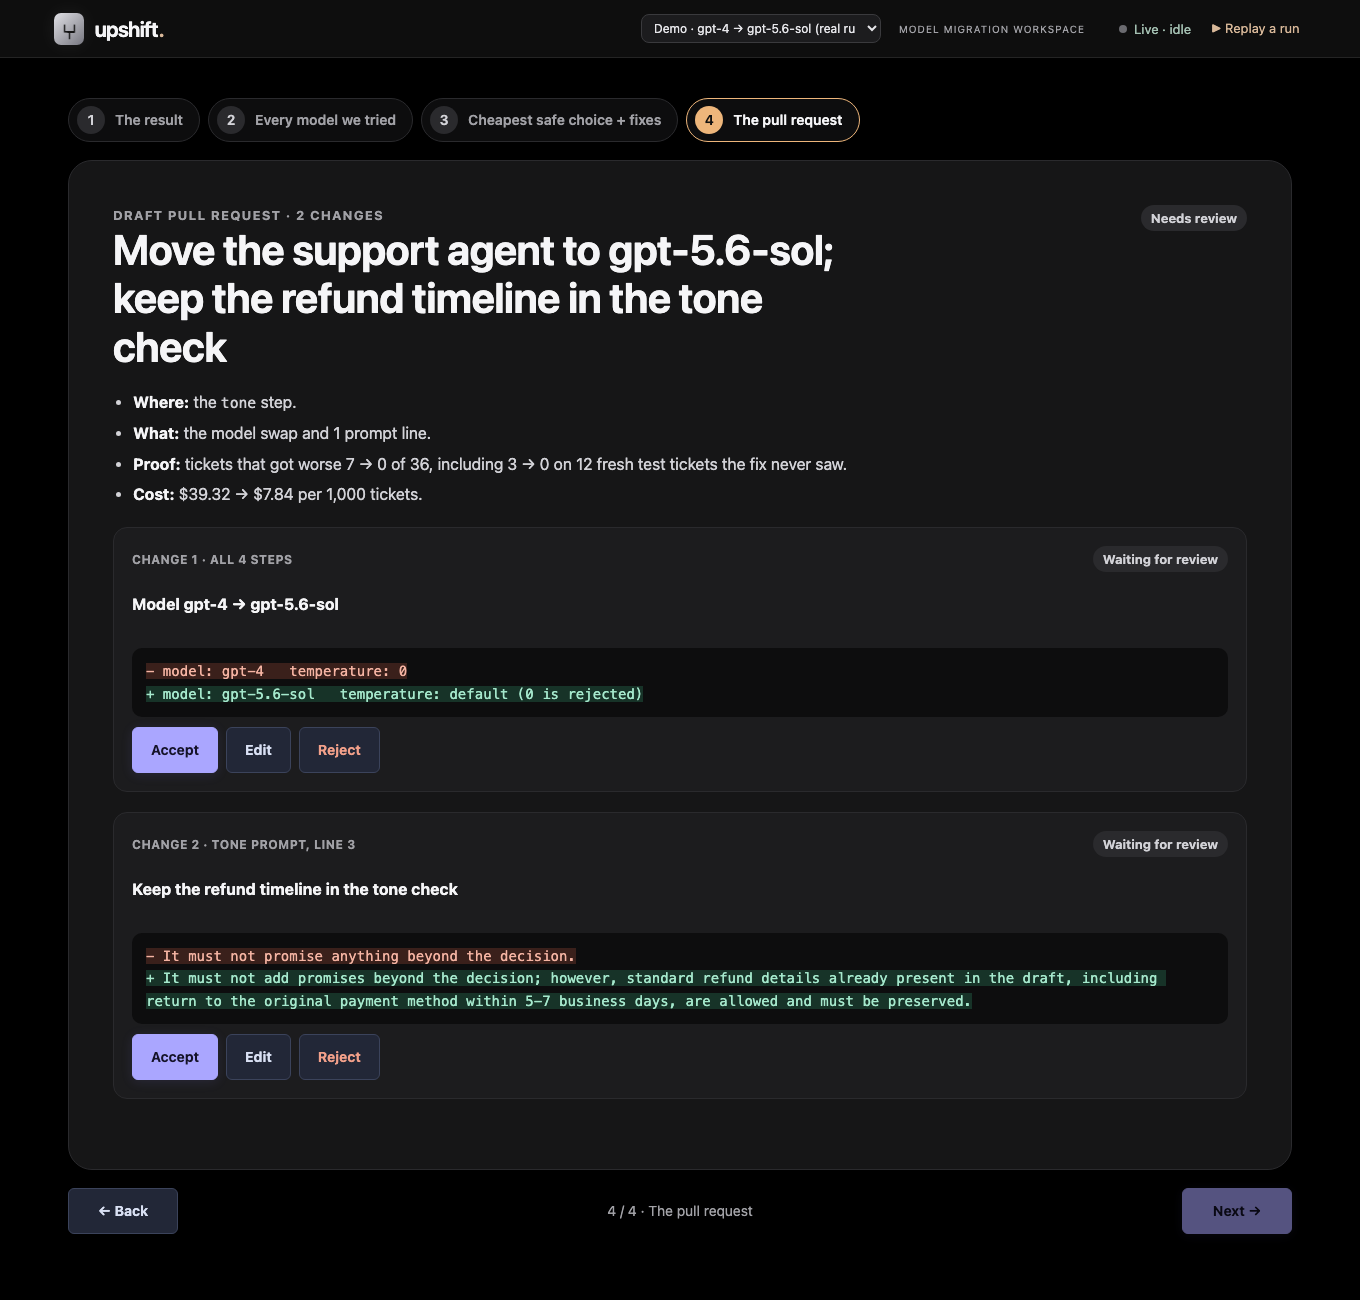
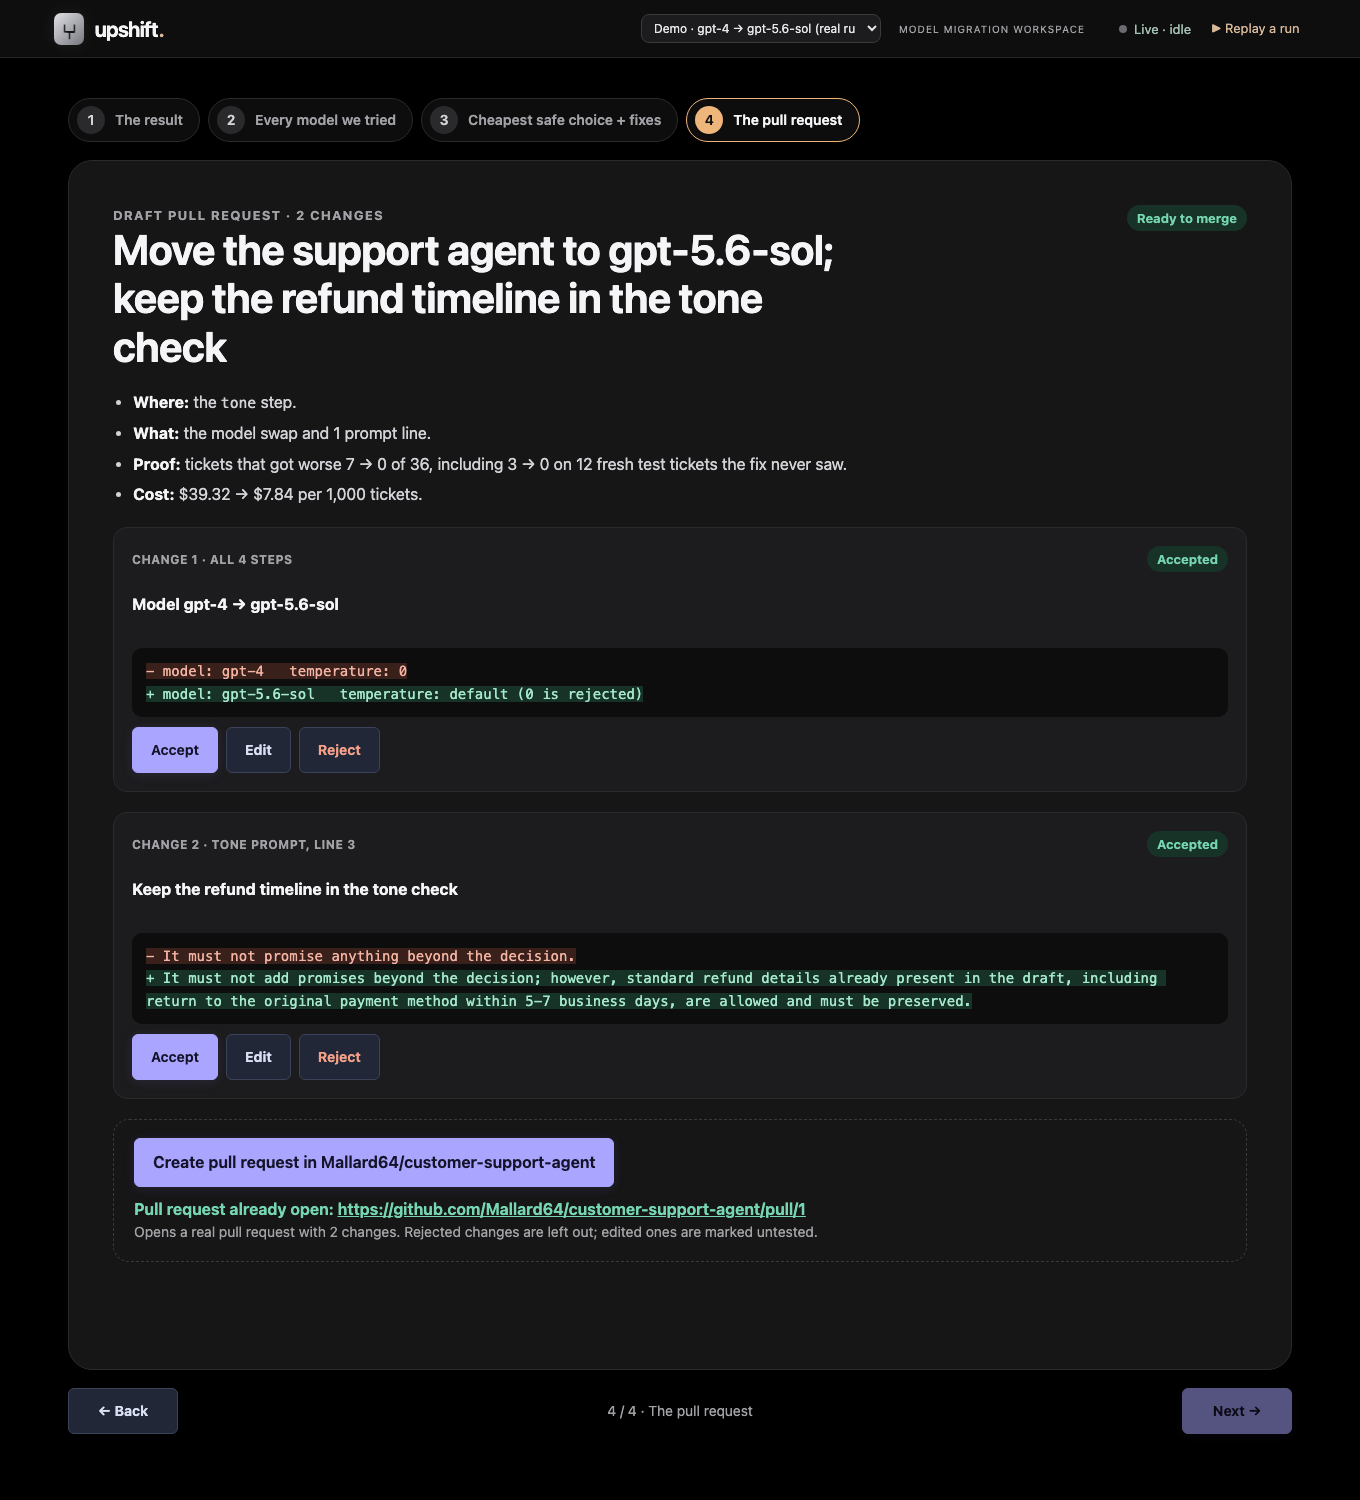
Slide 4 opens a real pull request in the support agent's own repo
- open_pr.py: applies the accepted/edited changes to Mallard64/customer-support-agent (config/target_repo.yml),
  checks the tested line is unchanged, pushes upshift/<model>-<hash>, runs gh pr create; same changes reuse the open PR
- dashboard: POST /api/create-pr (same-origin, one at a time) and a Create pull request button on slide 4
- tests/test_open_pr.py: 7 offline tests; DEMO.md explains the button and how to reset before a pitch

Claude-Session: https://claude.ai/code/session_01Bk3HujmHXAbUVtoahbFf9G

diff --git a/dashboard/demo-views.js b/dashboard/demo-views.js
@@ -170,6 +170,18 @@ function slidePR(data) {
     </article>`;
   }).join('');
   const ready = changes.every(ch => status(ch.id) === 'accepted');
+  const included = changes.filter(ch => ['accepted', 'edited'].includes(status(ch.id)));
+  const undecided = changes.filter(ch => status(ch.id) === 'pending');
+  const pr = demoState.pr || {};
+  const create = !d.target_repo ? '' : `<div class="sl-create">
+    <button class="button primary" id="sl-create"${!included.length || undecided.length || pr.busy ? ' disabled' : ''}>${pr.busy ? 'Opening pull request…' : `Create pull request in ${esc(d.target_repo)}`}</button>
+    <div aria-live="polite">
+      ${pr.url ? `<p class="dm-good">Pull request ${pr.existed ? 'already open' : 'opened'}: <a href="${esc(pr.url)}" target="_blank" rel="noopener noreferrer">${esc(pr.url)}</a></p>` : ''}
+      ${pr.error ? `<p class="dm-bad">Couldn't open the pull request: ${esc(pr.error)}</p>` : ''}
+      <p class="dm-foot">${undecided.length ? 'Decide every change first: accept, edit or reject.' : !included.length ? 'Accept or edit at least one change.'
+        : `Opens a real pull request with ${included.length} change${included.length > 1 ? 's' : ''}. Rejected changes are left out; edited ones are marked untested.`}</p>
+    </div>
+  </div>`;
   return `
   <div class="dm-change-head"><div><p class="sl-kicker">Draft pull request · ${changes.length} changes</p>
     <h2 class="sl-title" tabindex="-1">${esc(data.pr.title)}</h2></div>
@@ -180,7 +192,8 @@ function slidePR(data) {
     <li><strong>Proof:</strong> tickets that got worse ${d.confidence.regressed_dev + d.confidence.regressed_heldout_before} → ${data.candidates[0].summary.verdict_counts_after_fix?.REGRESSED} of ${total}, including ${p.heldout_before.REGRESSED} → ${p.heldout_after.REGRESSED} on ${d.confidence.heldout_tickets} fresh test tickets the fix never saw.</li>
     <li><strong>Cost:</strong> ${usd(d.totals_usd_per_1k.all_old)} → ${usd(d.recommended.usd_per_1k)} per 1,000 tickets.</li>
   </ul>
-  ${items}`;
+  ${items}
+  ${create}`;
 }
 
 // ---- Deck ------------------------------------------------------------------------------------------------
@@ -234,10 +247,28 @@ export function bindDemo(root, data) {
     panel.querySelector('#dm-after').textContent = usd(v * rec / 1000, 0);
     panel.querySelector('#dm-save').textContent = usd(v * (old - rec) / 1000, 0);
   };
+  const create = panel.querySelector('#sl-create');
+  if (create) create.onclick = async () => {
+    const changes = prChanges(data).map(ch => ({id: ch.id, decision: demoState.decisions[ch.id] || 'pending',
+      ...(demoState.edits[ch.id] != null ? {text: demoState.edits[ch.id]} : {})}));
+    demoState.pr = {busy: true};
+    redraw();
+    try {
+      const r = await fetch('/api/create-pr', {method: 'POST', headers: {'content-type': 'application/json'}, body: JSON.stringify({changes})});
+      const out = await r.json().catch(() => ({error: `the server answered ${r.status}`}));
+      demoState.pr = {...out, busy: false};
+    } catch {
+      demoState.pr = {busy: false, error: 'the upshift server isn\'t reachable (start it with npm start)'};
+    }
+    const current = document.querySelector('#demo-panel');  // the viewer may have changed slides meanwhile
+    if (current) { current.outerHTML = demoSection(data); bindDemo(root, data); }
+    document.querySelector('#sl-create')?.focus();
+  };
   panel.querySelectorAll('.dm-change').forEach(el => {
     const id = el.dataset.change;
     el.querySelectorAll('[data-act]').forEach(btn => btn.onclick = () => {
       const act = btn.dataset.act;
+      if (act !== 'edit' && act !== 'cancel') demoState.pr = null;  // a new decision means a different pull request
       if (act === 'accept') demoState.decisions[id] = 'accepted';
       if (act === 'reject') demoState.decisions[id] = 'rejected';
       if (act === 'edit') demoState.editing = id;

diff --git a/dashboard/styles.css b/dashboard/styles.css
@@ -216,3 +216,5 @@ i.old{background:#d9d9de}i.new{background:#c58a63}
 .sl-nav{display:flex;align-items:center;justify-content:space-between;gap:12px}.sl-nav .button{min-height:44px;min-width:110px}
 .sl-count{font-size:14px;color:var(--sl-mute);text-align:center}
 .sl-slide .dm-summary{color:var(--sl-soft)}.sl-slide .dm-summary strong{color:var(--sl-ink)}
+.sl-create{display:flex;flex-direction:column;gap:10px;padding:18px 20px;border:1px dashed #3a3a3e;border-radius:16px}
+.sl-create .button{align-self:flex-start;min-height:48px;font-size:16px}.sl-create p{margin:0}.sl-create a{color:var(--sl-good)}

diff --git a/open_pr.py b/open_pr.py
@@ -1,0 +1,161 @@
+"""Open the migration pull request in the app repo (config/target_repo.yml) with the changes a reviewer kept.
+
+  echo '{"changes": [{"id": "model", "decision": "accepted"}, {"id": "line0", "decision": "accepted"}]}' | python open_pr.py
+
+Called by the dashboard (POST /api/create-pr, slide 4). Change ids match the PR slide: "model" is the model swap
+on every step, "line<i>" is the i-th prompt edit from reports/demo/results.json. Decisions: "accepted" applies the
+change as tested, "edited" applies the reviewer's text (marked untested in the PR), anything else leaves it out.
+
+Clones the repo into a temp folder, checks each prompt line still says what upshift tested, commits on
+upshift/<model>-<hash of the applied changes>, pushes and runs `gh pr create`. The branch name depends only on
+the applied changes, so asking again for the same changes returns the PR that is already open.
+Prints JSON: {"url", "branch", "existed", "applied", "skipped"} or {"error"}.
+"""
+import hashlib
+import json
+import re
+import subprocess
+import sys
+import tempfile
+from pathlib import Path
+
+import yaml
+
+HERE = Path(__file__).parent
+INCLUDED = {"accepted", "edited"}
+
+
+def sh(*cmd, cwd=None):
+    r = subprocess.run(cmd, cwd=cwd, capture_output=True, text=True, timeout=120)
+    if r.returncode:
+        raise RuntimeError(f"{cmd[0]} {cmd[1]} failed: {(r.stderr or r.stdout).strip()[:400]}")
+    return r.stdout.strip()
+
+
+def plan(changes, demo):
+    """Which changes to apply, with the text to apply. Returns (applied, skipped)."""
+    by_id = {c.get("id"): c for c in changes}
+    defs = [{"id": "model", "kind": "model", "old": demo["pair"]["old"], "new": demo["pair"]["new"]}]
+    defs += [{"id": f"line{i}", "kind": "line", "step": demo["patch"]["step"], "line_index": e["line_index"],
+              "old": e["old"], "new": e["new"]} for i, e in enumerate(demo["patch"]["edits"])]
+    applied, skipped = [], []
+    for d in defs:
+        c = by_id.get(d["id"], {})
+        decision = c.get("decision")
+        if decision not in INCLUDED:
+            skipped.append({**d, "decision": decision or "pending"})
+            continue
+        text = d["new"]
+        if decision == "edited":
+            text = str(c.get("text") or "").strip()
+            if d["kind"] == "model":
+                m = re.search(r"model:\s*([\w.\-:/]+)", text)
+                if not m:
+                    raise ValueError("the edited model change must contain 'model: <name>'")
+                text = m.group(1)
+            if not text:
+                raise ValueError(f"the edited text for {d['id']} is empty")
+        applied.append({**d, "decision": decision, "apply": text})
+    return applied, skipped
+
+
+def apply(repo_dir, target, applied):
+    for ch in applied:
+        if ch["kind"] == "model":
+            path = repo_dir / target["config_file"]
+            text = path.read_text()
+            if f"model: {ch['old']}" not in text:
+                raise RuntimeError(f"{target['config_file']} no longer uses {ch['old']}; nothing to migrate")
+            text = text.replace(f"model: {ch['old']}", f"model: {ch['apply']}")
+            # The new models reject temperature 0 and run at their default sampling.
+            text = re.sub(r"^\s*temperature:\s*0(\.0)?\s*\n", "", text, flags=re.M)
+            path.write_text(text)
+        else:
+            path = repo_dir / target["prompts_dir"] / f"{ch['step']}.txt"
+            lines = path.read_text().split("\n")
+            i = ch["line_index"]
+            if i >= len(lines) or lines[i] != ch["old"]:
+                raise RuntimeError(f"{path.name} line {i + 1} has changed since upshift tested it; re-run upshift first")
+            lines[i] = ch["apply"]
+            path.write_text("\n".join(lines))
+
+
+def body(data, target, applied, skipped):
+    demo = data["demo"]
+    c, p, t = demo["confidence"], demo["patch"], demo["totals_usd_per_1k"]
+    after = data["candidates"][0]["summary"]["verdict_counts_after_fix"]["REGRESSED"]
+    rows = []
+    for ch in applied:
+        what = (f"Model `{ch['old']}` → `{ch['apply']}` on all 4 steps (`temperature: 0` removed: the new model rejects it)"
+                if ch["kind"] == "model" else f"`{target['prompts_dir']}/{ch['step']}.txt` line {ch['line_index'] + 1}")
+        note = " **Edited by the reviewer; not re-tested.** Re-run upshift before merging." if ch["decision"] == "edited" else ""
+        rows.append(f"- {what}.{note}")
+        if ch["kind"] == "line":
+            rows.append(f"  ```diff\n  - {ch['old']}\n  + {ch['apply']}\n  ```")
+    left_out = "".join(f"\n- Not included ({ch['decision']}): {ch['id']}" for ch in skipped)
+    pool = demo.get("pool") or {}
+    later = [pool.get("sol_patch_holdout2"), ((pool.get("retest") or {}).get("fresh3") or {}).get("sol_patch")]
+    later = ", ".join(f"{x['regressed']} of {x['of']}" for x in later if x)
+    repaired = next(s["repair"]["n"] for s in demo["per_step"] if s["guilty"])
+    return f"""## Why
+`{demo['pair']['old']}` shuts down on Oct 23, 2026. This moves the agent to `{demo['pair']['new']}`.
+
+## What changes
+{chr(10).join(rows)}{left_out}
+
+## What upshift found
+- Switching only the model, the **tone** step started deleting the "5–7 business days" refund timeline from replies.
+- Putting `{demo['pair']['old']}` back at the tone step alone fixes {repaired}/{c['regressed_dev']} broken tickets; no other step fixes any.
+- Removing tone line {p['edits'][0]['line_index'] + 1} alone fixes them too; the prompt change above rewrites that line.
+
+## Evidence
+- Tickets that got worse: {c['regressed_dev'] + c['regressed_heldout_before']} → {after} of {c['dev_tickets'] + c['heldout_tickets']} ({c['runs_per_ticket']} runs each), including {p['heldout_before']['REGRESSED']} → {p['heldout_after']['REGRESSED']} on {c['heldout_tickets']} tickets the fix never saw.{f' Later fresh tests: {later}.' if later else ''}
+- Replies passing every check: {demo['quality']['old']['passed_all']:.1%} before, {demo['quality']['new_fixed']['passed_all']:.1%} after.
+- Model cost per 1,000 tickets: ${t['all_old']:.2f} → ${demo['recommended']['usd_per_1k']:.2f}.
+- The tickets are hand-written test tickets; the model outputs are real recorded runs.
+
+Opened by upshift from the reviewer's decisions on the dashboard.
+"""
+
+
+def main():
+    req = json.load(sys.stdin)
+    target = yaml.safe_load((HERE / "config" / "target_repo.yml").read_text())
+    data = json.loads((HERE / "reports" / "demo" / "results.json").read_text())
+    demo = data["demo"]
+    applied, skipped = plan(req.get("changes") or [], demo)
+    if not applied:
+        raise ValueError("accept or edit at least one change first")
+    digest = hashlib.sha256(json.dumps([[c["id"], c["apply"]] for c in applied]).encode()).hexdigest()[:8]
+    branch = f"upshift/{demo['pair']['new']}-{digest}"
+    repo = target["repo"]
+    out = {"branch": branch, "repo": repo, "applied": [c["id"] for c in applied], "skipped": [c["id"] for c in skipped]}
+
+    existing = json.loads(sh("gh", "pr", "list", "--repo", repo, "--head", branch, "--state", "open", "--json", "url") or "[]")
+    if existing:
+        print(json.dumps({**out, "url": existing[0]["url"], "existed": True}))
+        return
+    with tempfile.TemporaryDirectory(prefix="upshift-pr-") as tmp:
+        d = Path(tmp) / "repo"
+        sh("gh", "repo", "clone", repo, str(d), "--", "--depth", "1", "--branch", target["base"])
+        sh("git", "checkout", "-b", branch, cwd=d)
+        apply(d, target, applied)
+        sh("git", "add", "-A", cwd=d)
+        sh("git", "commit", "-m", f"Move the support agent from {demo['pair']['old']} to {demo['pair']['new']}", cwd=d)
+        # upshift/* branches belong to upshift: overwrite one left behind by a closed PR.
+        sh("git", "push", "--force", "-u", "origin", branch, cwd=d)
+        title = (f"Move the support agent to {demo['pair']['new']}" +
+                 ("; keep the refund timeline in the tone check" if any(c["kind"] == "line" for c in applied) else ""))
+        bf = Path(tmp) / "body.md"
+        bf.write_text(body(data, target, applied, skipped))
+        url = sh("gh", "pr", "create", "--repo", repo, "--base", target["base"], "--head", branch,
+                 "--title", title, "--body-file", str(bf), cwd=d).splitlines()[-1]
+    print(json.dumps({**out, "url": url, "existed": False}))
+
+
+if __name__ == "__main__":
+    try:
+        main()
+    except Exception as e:  # the dashboard shows this message
+        print(json.dumps({"error": str(e)}))
+        sys.exit(1)

diff --git a/tests/test_open_pr.py b/tests/test_open_pr.py
@@ -1,0 +1,70 @@
+"""open_pr.py without the network: which changes are applied, and how they change the app repo's files."""
+import json
+import sys
+import tempfile
+import unittest
+from pathlib import Path
+
+sys.path.insert(0, str(Path(__file__).resolve().parent.parent))
+import open_pr as O  # noqa: E402
+
+HERE = Path(__file__).resolve().parent.parent
+DATA = json.loads((HERE / "reports" / "demo" / "results.json").read_text())
+DEMO = DATA["demo"]
+TARGET = {"prompts_dir": "prompts", "config_file": "config.yml"}
+OLD = DEMO["patch"]["edits"][0]["old"]
+
+
+def app_repo(tmp, tone_line=OLD):
+    d = Path(tmp)
+    (d / "prompts").mkdir()
+    (d / "prompts" / "tone.txt").write_text(f"line one\nline two\n{tone_line}\nline four\n")
+    (d / "config.yml").write_text("steps:\n  tone:\n    model: gpt-4\n    temperature: 0\n")
+    return d
+
+
+class Plan(unittest.TestCase):
+    def test_only_accepted_or_edited_changes_are_applied(self):
+        applied, skipped = O.plan([{"id": "model", "decision": "accepted"}, {"id": "line0", "decision": "rejected"}], DEMO)
+        self.assertEqual(([c["id"] for c in applied], [c["id"] for c in skipped]), (["model"], ["line0"]))
+
+    def test_undecided_changes_are_left_out(self):
+        applied, skipped = O.plan([], DEMO)
+        self.assertEqual((applied, [c["decision"] for c in skipped]), ([], ["pending", "pending"]))
+
+    def test_edited_text_is_used(self):
+        applied, _ = O.plan([{"id": "line0", "decision": "edited", "text": "  Keep refund timelines.  "}], DEMO)
+        self.assertEqual(applied[0]["apply"], "Keep refund timelines.")
+
+    def test_edited_model_change_needs_a_model_name(self):
+        applied, _ = O.plan([{"id": "model", "decision": "edited", "text": "model: gpt-5.6-terra  temperature: default"}], DEMO)
+        self.assertEqual(applied[0]["apply"], "gpt-5.6-terra")
+        with self.assertRaises(ValueError):
+            O.plan([{"id": "model", "decision": "edited", "text": "use the cheaper one"}], DEMO)
+
+
+class Apply(unittest.TestCase):
+    def test_model_swap_and_prompt_line(self):
+        with tempfile.TemporaryDirectory() as t:
+            d = app_repo(t)
+            applied, _ = O.plan([{"id": "model", "decision": "accepted"}, {"id": "line0", "decision": "accepted"}], DEMO)
+            O.apply(d, TARGET, applied)
+            self.assertEqual((d / "config.yml").read_text(), "steps:\n  tone:\n    model: gpt-5.6-sol\n")
+            self.assertEqual((d / "prompts" / "tone.txt").read_text().split("\n")[2], DEMO["patch"]["edits"][0]["new"])
+
+    def test_refuses_a_line_that_changed_since_testing(self):
+        with tempfile.TemporaryDirectory() as t:
+            d = app_repo(t, tone_line="Someone already rewrote this line.")
+            applied, _ = O.plan([{"id": "line0", "decision": "accepted"}], DEMO)
+            with self.assertRaisesRegex(RuntimeError, "has changed"):
+                O.apply(d, TARGET, applied)
+
+    def test_pr_text_flags_edits_and_left_out_changes(self):
+        applied, skipped = O.plan([{"id": "model", "decision": "rejected"}, {"id": "line0", "decision": "edited", "text": "X"}], DEMO)
+        text = O.body(DATA, TARGET, applied, skipped)
+        self.assertIn("not re-tested", text)
+        self.assertIn("Not included (rejected): model", text)
+
+
+if __name__ == "__main__":
+    unittest.main()

diff --git a/results_demo.py b/results_demo.py
@@ -230,6 +230,7 @@ def main():
                           "note": "9 planted prompt breaks, terra as old and sol as new; held-out numbers (before the narrowing fix)"},
             "prices": {m: {k: p.get(k) for k in ("input_per_1m", "output_per_1m", "source", "checked")}
                        for m, p in prices.items() if m in ("gpt-4", "gpt-5.6-sol", "gpt-5.6-terra")},
+            "target_repo": yaml.safe_load((HERE / "config" / "target_repo.yml").read_text())["repo"],
             "monthly_requests_default": MONTHLY_REQUESTS_DEFAULT,
             "monthly_requests_note": "assumption for the savings calculator; edit it on the page",
         },

diff --git a/DEMO_LOG.md b/DEMO_LOG.md
@@ -270,3 +270,24 @@ This was an engineer edit, written from the t42 failure.
 | open weights | open-source model on your own computer |
 
 Code names and JSON fields are unchanged, so the frontend contract holds. Committed older reports (`reports/*/PR.md`) keep their old wording until they're regenerated.
+
+## Follow-up 4 (Oct 9): the support agent as its own repo; slide 4 opens a real PR
+- **New repo `Mallard64/customer-support-agent` (private)**: the 4-step agent as a standalone app.
+  - It's the pre-migration state: gpt-4 at temperature 0 on every step, with the original prompts and no planted line.
+  - Files: prompts in `prompts/<step>.txt` (one instruction per line), models in `config.yml`, fake tools reading `data/orders.json` and `data/policies.json`, plus `agent.py`, a README and 4 offline tests.
+  - Prompts and data were generated from `support_agent.py`, so they match what was tested.
+  - One live gpt-4 run worked and kept the "5–7 business days" line.
+- **`open_pr.py` + `config/target_repo.yml`:**
+  - Takes the reviewer's accept / edit / reject decisions and clones the app repo.
+  - Applies only the included changes: models in `config.yml` (dropping `temperature: 0`) and tone line 3. It checks the line still matches what was tested.
+  - Pushes `upshift/<model>-<hash>` and runs `gh pr create` with the evidence in the description. Edited changes are flagged as untested; rejected ones are listed as left out.
+  - The same changes reuse the open PR. A branch left over from a closed PR is overwritten, since `upshift/*` branches belong to upshift.
+- **Dashboard:**
+  - `POST /api/create-pr` (same-origin only, one at a time, 3-minute timeout) runs `open_pr.py`.
+  - Slide 4's "Create pull request in Mallard64/customer-support-agent" button is enabled once every change has a decision. It shows the link or a plain-language error.
+- **Tested for real:**
+  - **https://github.com/Mallard64/customer-support-agent/pull/1** was created through the endpoint. Its diff is exactly the 4 model lines and tone line 3.
+  - A repeat request returned the same PR, and a cross-site request was refused.
+  - In headless Chrome, the button was disabled before the decisions, enabled after accepting both, and the click showed the PR link.
+- 7 new offline tests (`tests/test_open_pr.py`); 25 in total.
+- Spend: about $0.04 for the one live gpt-4 smoke run of the standalone agent.

diff --git a/DEMO.md b/DEMO.md
@@ -130,8 +130,18 @@ when the new model also wrote the draft. Say so if asked.
 ![Slide 4: the pull request](docs/demo/slide-4-pr.png)
 
 Two changes, each with Accept / Edit / Reject: the model swap (gpt-4 at temperature 0 → gpt-5.6-sol at its default,
-because it rejects 0) and tone line 3. An edited line is marked "re-run needed". The page never presents an untested
-edit as verified. Nothing is posted anywhere; the PR is a draft on this page.
+because it rejects 0) and tone line 3. An edited line is marked "re-run needed".
+
+**Create pull request** opens a real PR in the app repo, [Mallard64/customer-support-agent](https://github.com/Mallard64/customer-support-agent)
+(private; set in `config/target_repo.yml`). It's enabled once every change is accepted, edited or rejected:
+- Only accepted and edited changes go in. Edited ones are marked "not re-tested" in the PR, and rejected ones are listed as left out.
+- Before changing a prompt line, it checks that the line still says what upshift tested.
+- The same set of changes always reuses the PR that's already open, so clicking twice doesn't create a duplicate.
+
+Needs internet and `gh auth login` with access to that repo. It's the one part of the demo that isn't offline.
+
+**Before a pitch:** PR #1 is already open from testing, so the button will show "already open". To create it live in
+front of people, close PR #1 first (`gh pr close 1 --repo Mallard64/customer-support-agent`). The next click opens a fresh one.
 
 ## Likely questions
 
